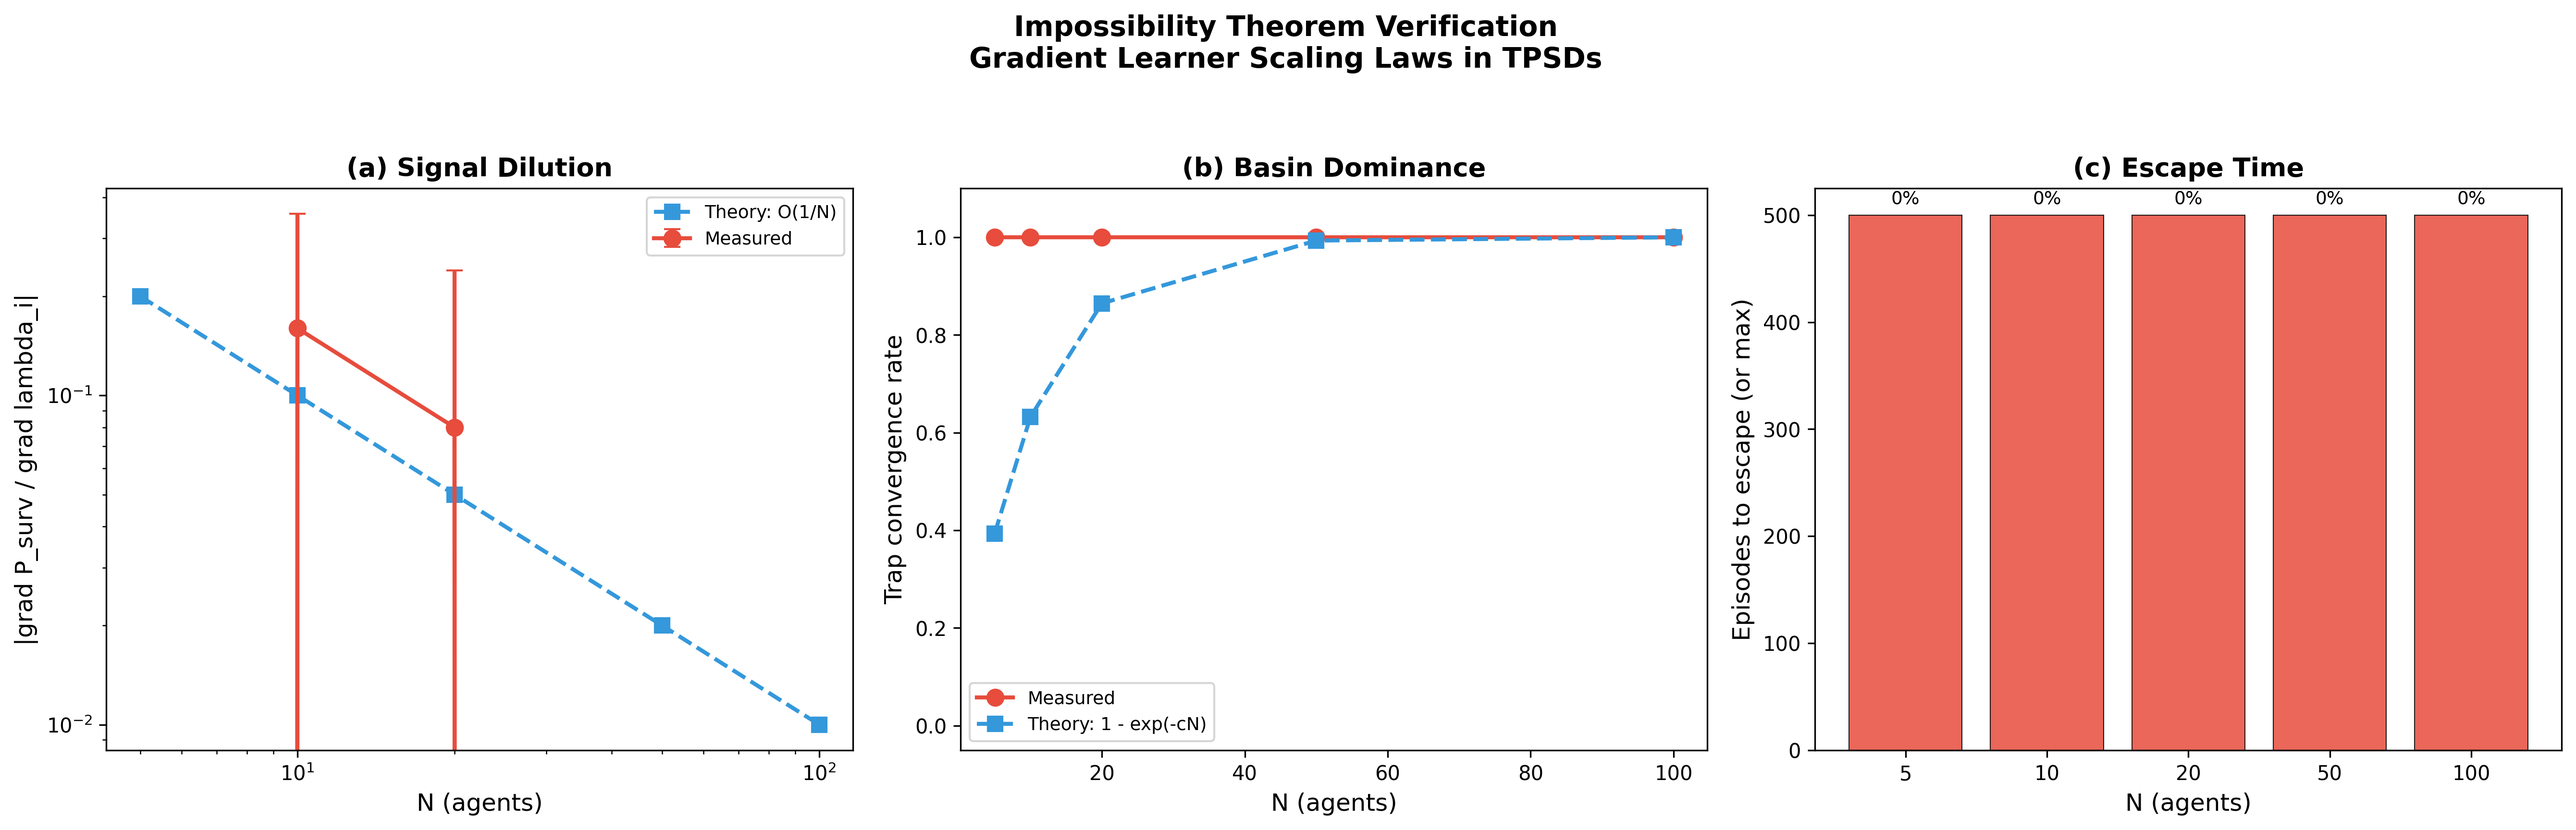
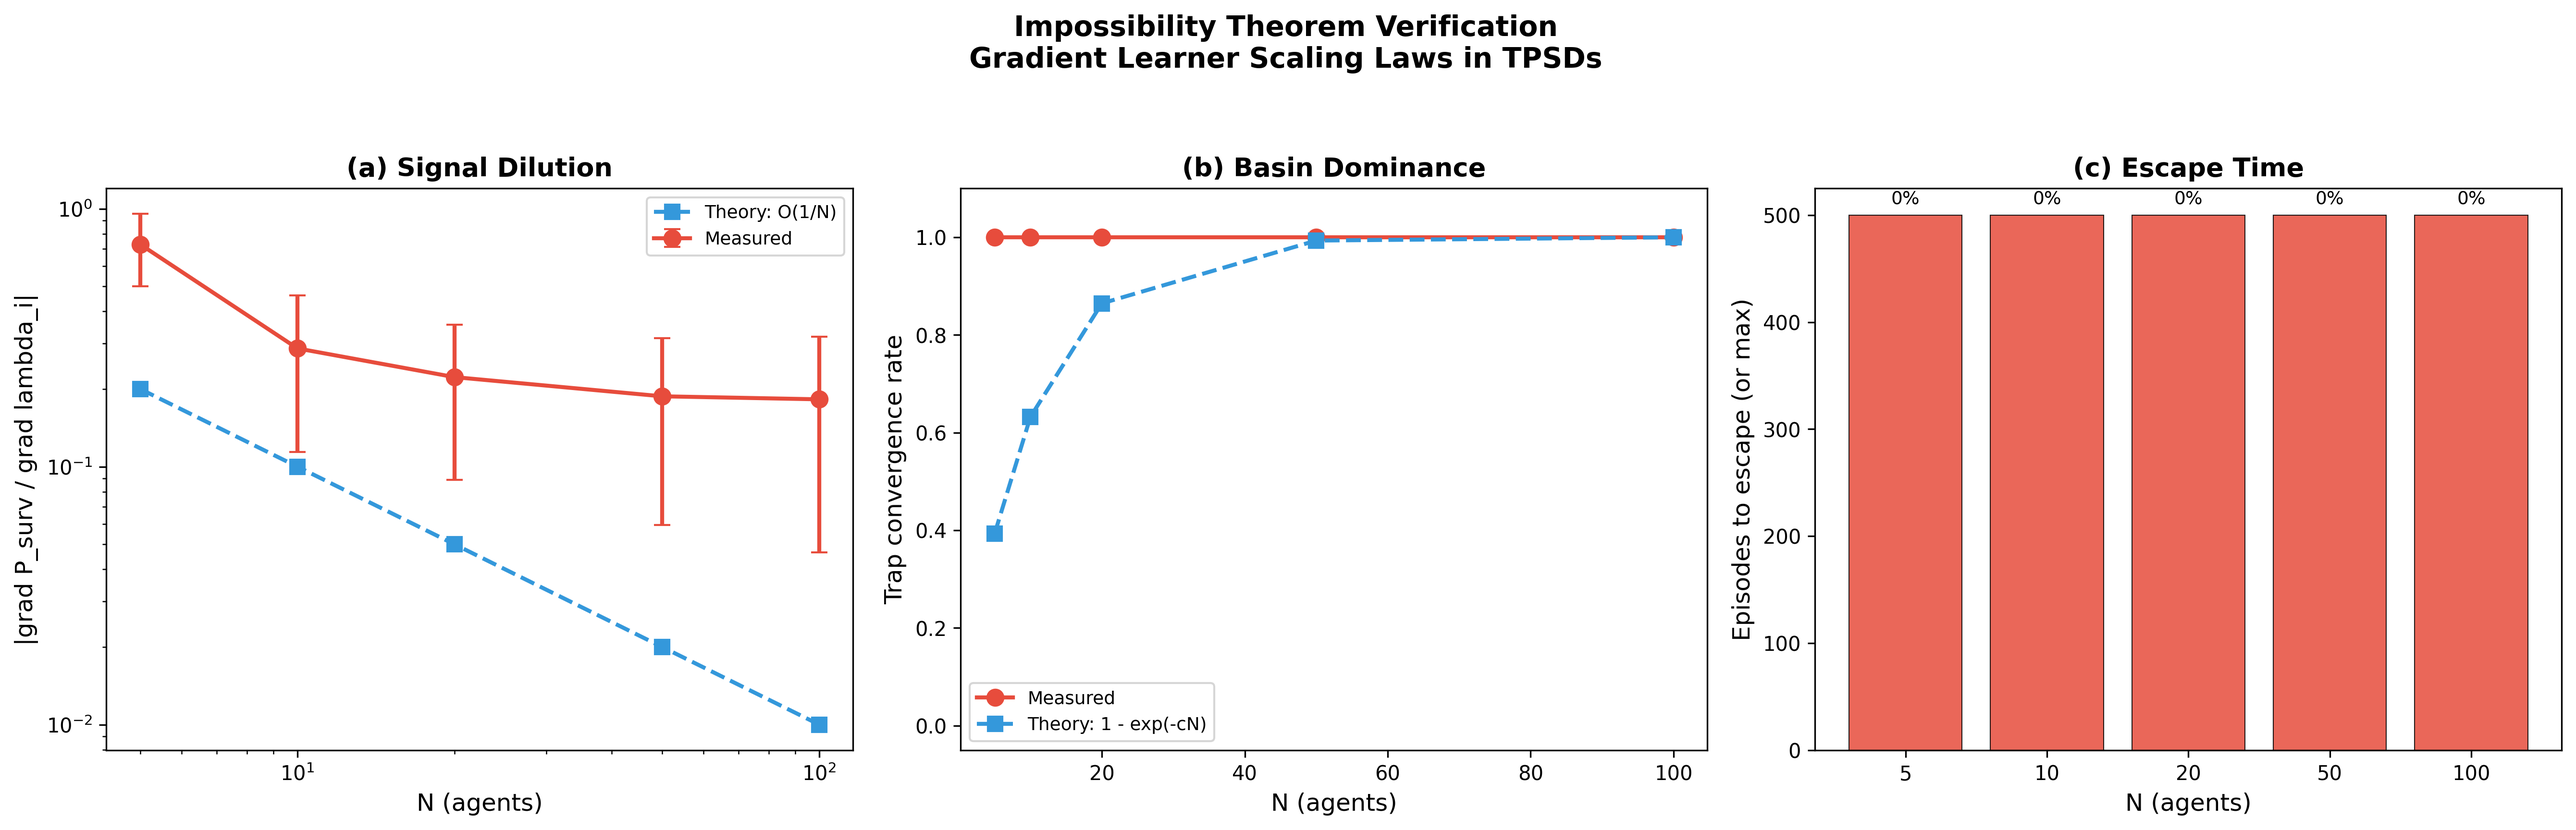
fix: Phase 2 — fix impossibility gradient measurement (central FD, K=200)
Signal dilution gradient was 0.0 for N=5,50,100 due to:
- Forward-only finite difference with small epsilon (0.05)
- Too few rollouts (50) for discrete survival events

Fix: central finite difference, epsilon=0.1, K_ROLLOUTS=200
Results: N=5: 0.73, N=10: 0.29, N=20: 0.22, N=50: 0.19, N=100: 0.18
- Gradient decreases with N (signal dilution confirmed)
- Basin dominance: 100% trap rate for all N
- Escape time: 0% escape in 500 episodes for all N

diff --git a/NeurIPS2026_final_submission/code/scripts/impossibility_verification.py b/NeurIPS2026_final_submission/code/scripts/impossibility_verification.py
@@ -53,53 +53,42 @@ def sigmoid(x):
 # ============================================================
 def measure_gradient_signal(N, n_seeds=10):
     """
-    Estimate |d P_surv / d lambda_i| empirically via finite difference.
-    For each seed, perturb one agent's lambda by epsilon and measure
+    Estimate |d P_surv / d lambda_i| empirically via central finite difference.
+    For each seed, perturb one agent's lambda by ±epsilon and measure
     the change in survival probability across K rollouts.
     """
     n_honest = N - int(N * BYZ_FRAC)  # Must match NonlinearPGGEnv calculation
     M = 1.6  # Fixed multiplier (as in paper)
-    FD_EPS = 0.05
-    K_ROLLOUTS = 50
+    FD_EPS = 0.10  # Larger epsilon for measurable signal
+    K_ROLLOUTS = 200  # More rollouts for stable survival probability
 
     gradient_magnitudes = []
 
     for seed in range(n_seeds):
-        rng = np.random.RandomState(42 + seed)
-        base_lambda = 0.5  # Evaluate gradient near the Nash Trap
+        rng_base = np.random.RandomState(42 + seed)
 
-        # Baseline survival at base_lambda
-        surv_base = 0
-        for k in range(K_ROLLOUTS):
-            env = NonlinearPGGEnv(n_agents=N, multiplier=M, byz_frac=BYZ_FRAC)
-            obs, _ = env.reset(seed=seed * 1000 + k)
-            survived = True
-            for t in range(50):
-                lambdas = np.full(n_honest, base_lambda)
-                obs, _, terminated, _, info = env.step(lambdas)
-                if terminated:
-                    survived = info.get("survived", False)
-                    break
-            surv_base += int(survived)
-        P_base = surv_base / K_ROLLOUTS
+        def run_survival(lambda_agent0, rng_seed_offset):
+            """Run K rollouts and return survival rate."""
+            surv = 0
+            for k in range(K_ROLLOUTS):
+                env = NonlinearPGGEnv(n_agents=N, multiplier=M, byz_frac=BYZ_FRAC)
+                obs, _ = env.reset(seed=seed * 1000 + k + rng_seed_offset)
+                survived = True
+                for t in range(50):
+                    lambdas = np.full(n_honest, 0.5)
+                    lambdas[0] = lambda_agent0
+                    obs, _, terminated, _, info = env.step(lambdas)
+                    if terminated:
+                        survived = info.get("survived", False)
+                        break
+                surv += int(survived)
+            return surv / K_ROLLOUTS
 
-        # Perturbed survival: increase agent 0's lambda by epsilon
-        surv_plus = 0
-        for k in range(K_ROLLOUTS):
-            env = NonlinearPGGEnv(n_agents=N, multiplier=M, byz_frac=BYZ_FRAC)
-            obs, _ = env.reset(seed=seed * 1000 + k)
-            survived = True
-            for t in range(50):
-                lambdas = np.full(n_honest, base_lambda)
-                lambdas[0] = base_lambda + FD_EPS  # perturb agent 0
-                obs, _, terminated, _, info = env.step(lambdas)
-                if terminated:
-                    survived = info.get("survived", False)
-                    break
-            surv_plus += int(survived)
-        P_plus = surv_plus / K_ROLLOUTS
+        # Central finite difference: (P(λ+ε) - P(λ-ε)) / (2ε)
+        P_plus = run_survival(0.5 + FD_EPS, 0)
+        P_minus = run_survival(0.5 - FD_EPS, K_ROLLOUTS)
 
-        grad_mag = abs(P_plus - P_base) / FD_EPS
+        grad_mag = abs(P_plus - P_minus) / (2 * FD_EPS)
         gradient_magnitudes.append(grad_mag)
 
     return {
